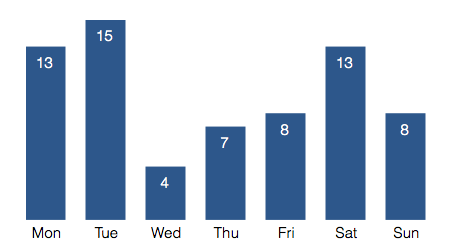
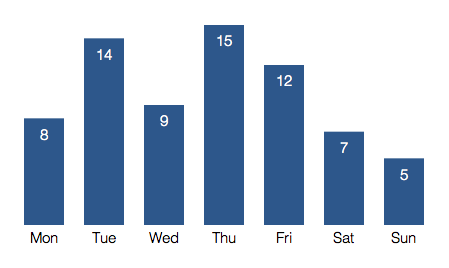
date parse bug

diff --git a/_posts/2012-01-11-semanticweb.md b/_posts/2012-01-11-semanticweb.md
@@ -123,7 +123,7 @@ var count = "                                  \
   ORDER BY ?date                  \
   ", 
   day, per_day={"Mon":0,"Tue":0,"Wed":0,"Thu":0,"Fri":0,"Sat":0,"Sun":0},
-  data=[], 
+  data=[],
   total_tw=0, today_tw=0;
 
 $.ajax({
@@ -133,7 +133,7 @@ $.ajax({
 
     // group per day-of-week
     $.each(d.results.bindings, function(i, v) { 
-      day = (new Date.parseExact(v.date.value, "yyyy-mm-dd")).toString("ddd");
+      day = (new Date.parse(v.date.value)).toString("ddd");
       per_day[day] += parseInt(v.total.value);
     });
 
